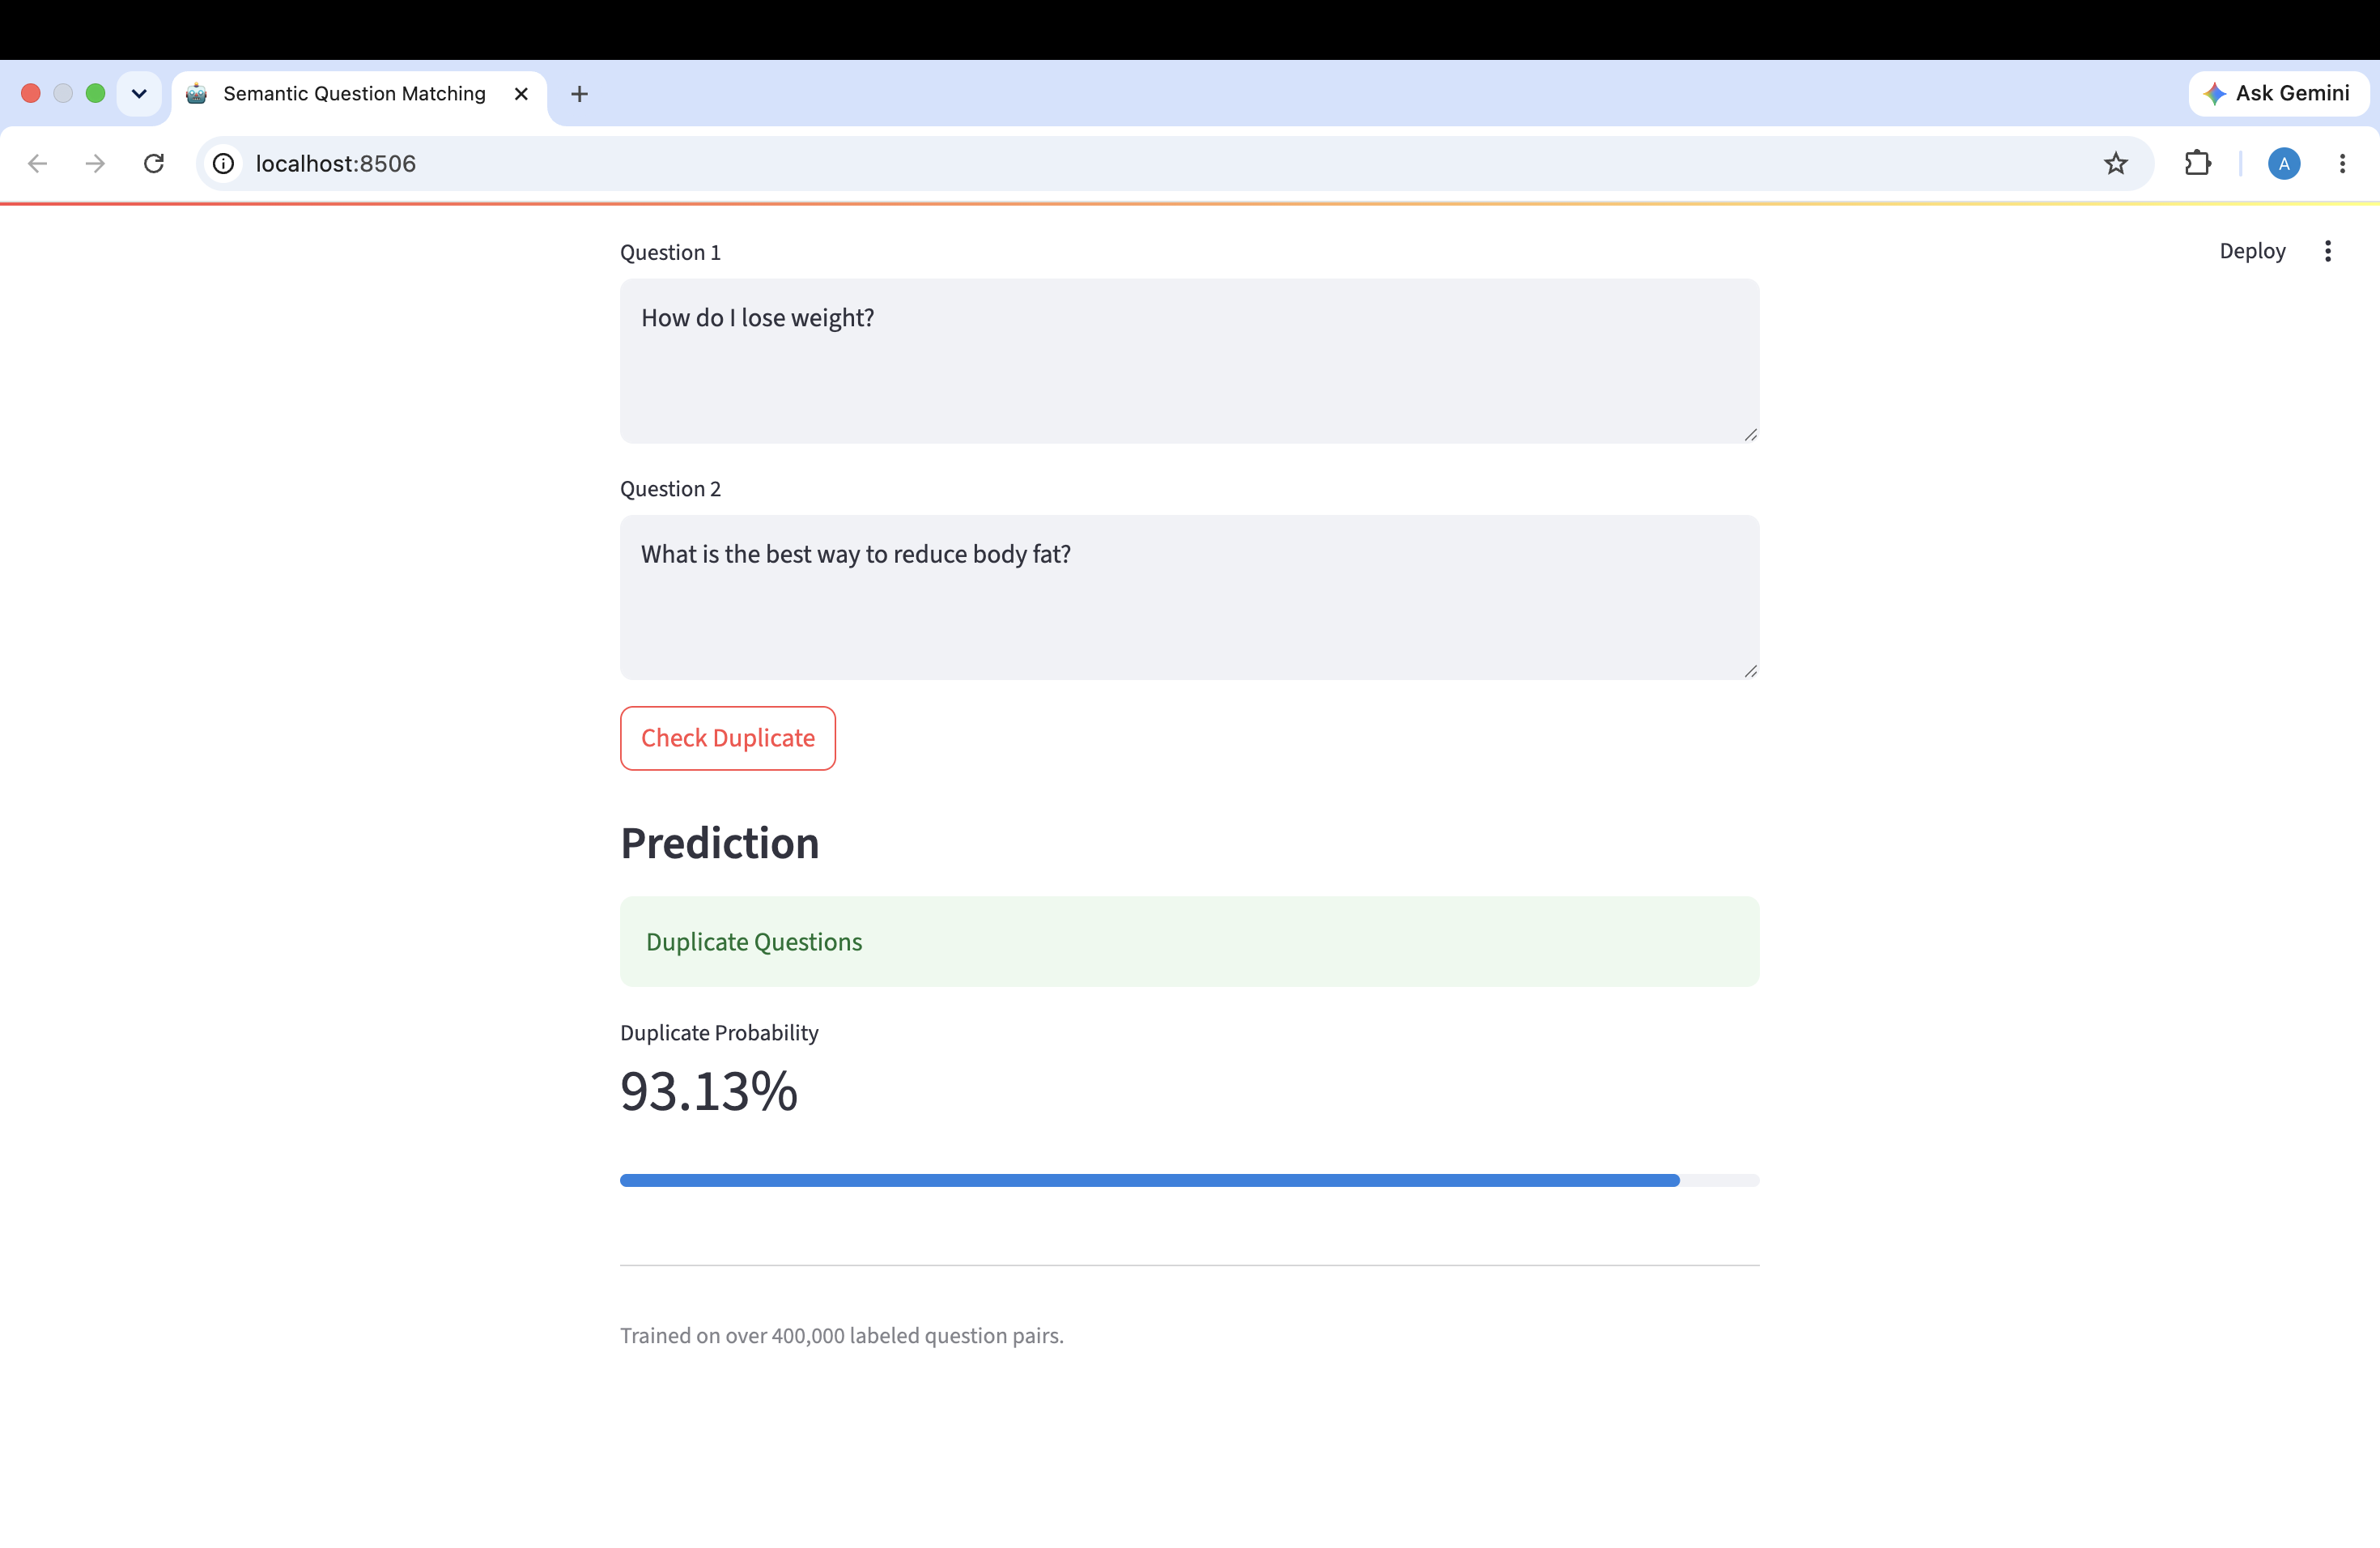
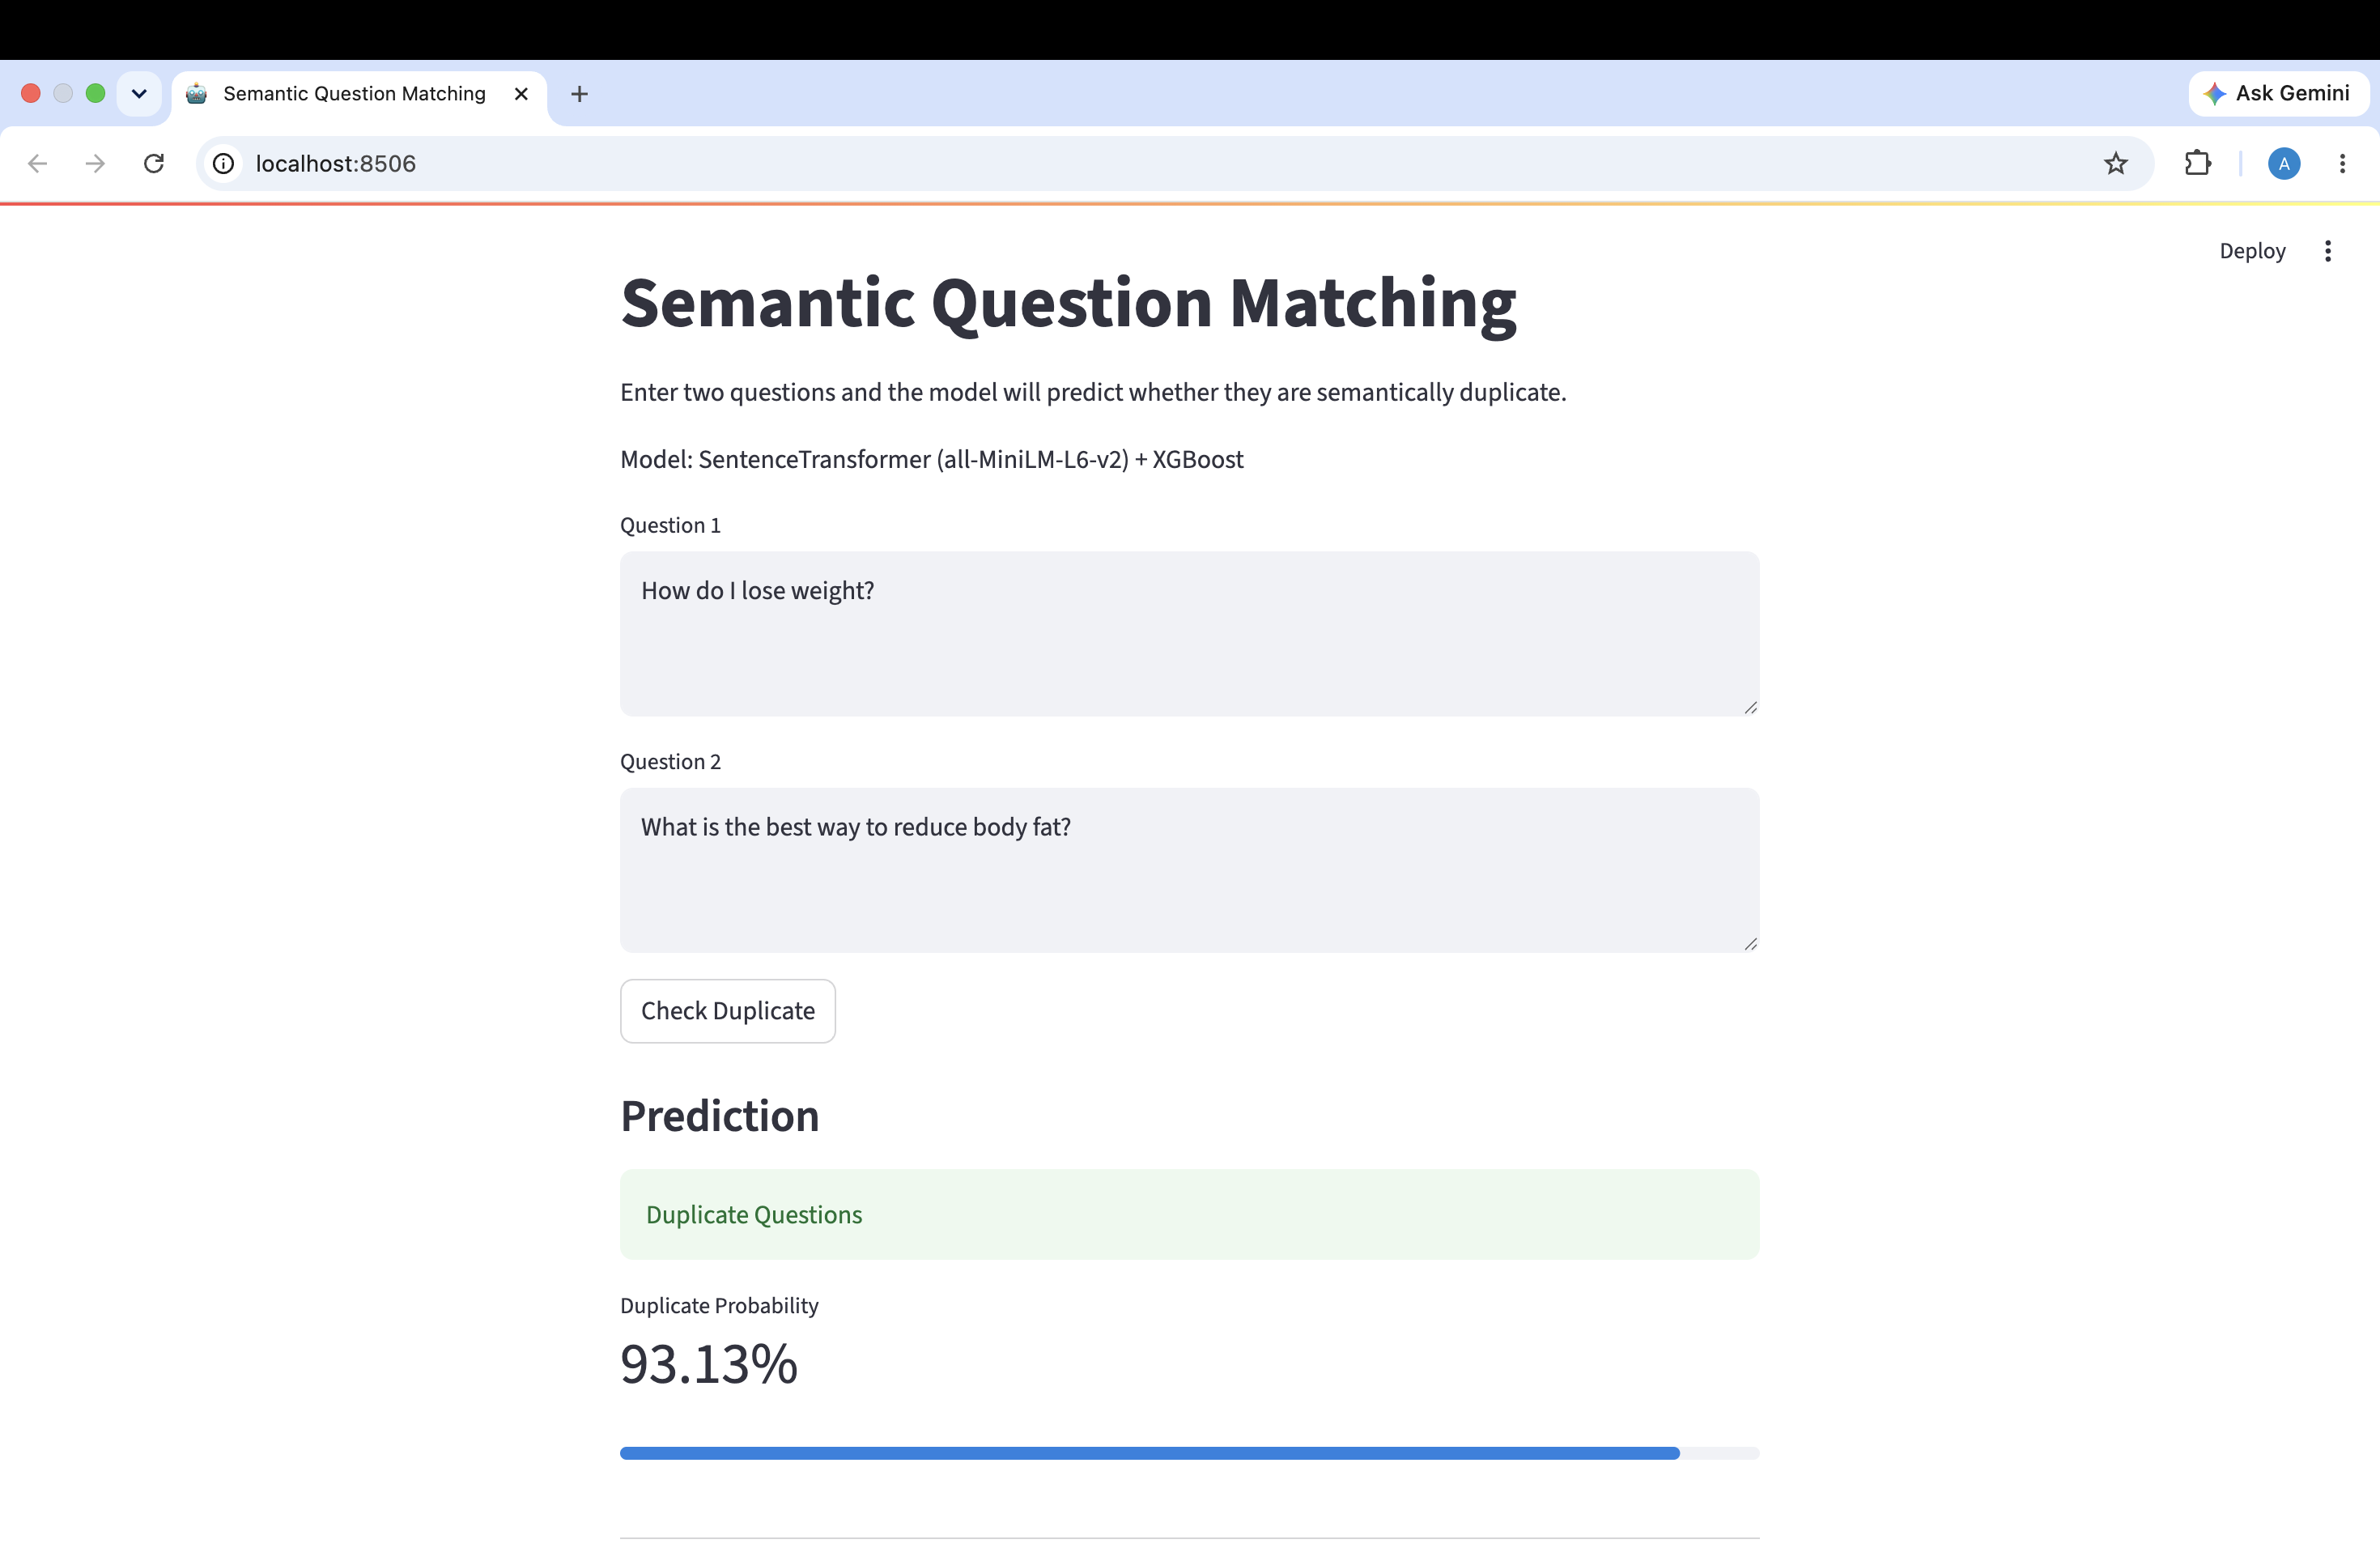
Add deployment details and application screenshots

diff --git a/README.md b/README.md
@@ -17,6 +17,26 @@ The hard part isn't the model — it's that two questions can mean the same thin
 
 ---
 
+## Live Demo
+
+🔗 **Live Application:** https://ayushigupta2132-semantic-duplicate-question-detectio-app-zoc0mk.streamlit.app/
+
+The final model is deployed as an interactive Streamlit application. Users can enter any two questions and receive a duplicate probability score generated by the SentenceTransformer + XGBoost pipeline.
+
+---
+
+## Application Preview
+
+### Home Page
+
+![Home Page](images/homepage.png)
+
+### Prediction Example
+
+![Prediction Example](images/prediction.png)
+
+---
+
 ## Results
 
 | Approach                                         | Accuracy   | F1         |
@@ -25,17 +45,19 @@ The hard part isn't the model — it's that two questions can mean the same thin
 | Handcrafted features + CountVectorizer + XGBoost | 80.99%     | 73.92%     |
 | SentenceTransformer embeddings + XGBoost         | **86.59%** | **82.15%** |
 
-The jump from ~79% to 86.59% came in two stages: feature engineering got about half of it, and switching to sentence embeddings got the other half.
+The jump from ~79% to 86.59% came in two stages: feature engineering got about half of it, and switching to sentence embeddings got the other half.The final transformer-based model was deployed as an interactive Streamlit application for real-time duplicate question prediction.
 
 ---
 
 ## Repository
 
-```
-├── quora_eda.ipynb                  # EDA, class analysis, baseline experiments
-├── quora_duplicate_detection.ipynb  # Full pipeline: preprocessing → features → models → transformer
-└── requirements.txt
-```
+├── app.py # Streamlit application
+├── model.pkl # Trained XGBoost model
+├── quora_eda.ipynb # EDA and baseline experiments
+├── quora_duplicate_detection.ipynb # Complete training pipeline
+├── requirements.txt
+├── README.md
+└── images/
 
 ---
 
@@ -226,6 +248,26 @@ F1 Score  : 0.8215
 The biggest improvement came from question pairs with low lexical overlap but similar meaning, which the classical pipeline often struggled with. "What causes inflation?" and "Why do prices rise?" now get high cosine similarity because the embeddings encode what those questions _mean_, not just what words appear in them.
 
 The final transformer-based pipeline achieved the best performance in the project while using a significantly lower-dimensional representation than the classical feature-engineered approach.
+
+---
+
+## Deployment
+
+The final model was deployed using Streamlit.
+
+Inference pipeline:
+
+1. User enters two questions
+2. Questions are converted into embeddings using all-MiniLM-L6-v2
+3. Features are constructed using:
+   - Question 1 embedding
+   - Question 2 embedding
+   - Absolute embedding difference
+   - Cosine similarity
+4. XGBoost generates a duplicate probability score
+5. The prediction is displayed through the Streamlit interface
+
+The deployed application reproduces the same inference pipeline used during model evaluation.
 
 ---
 